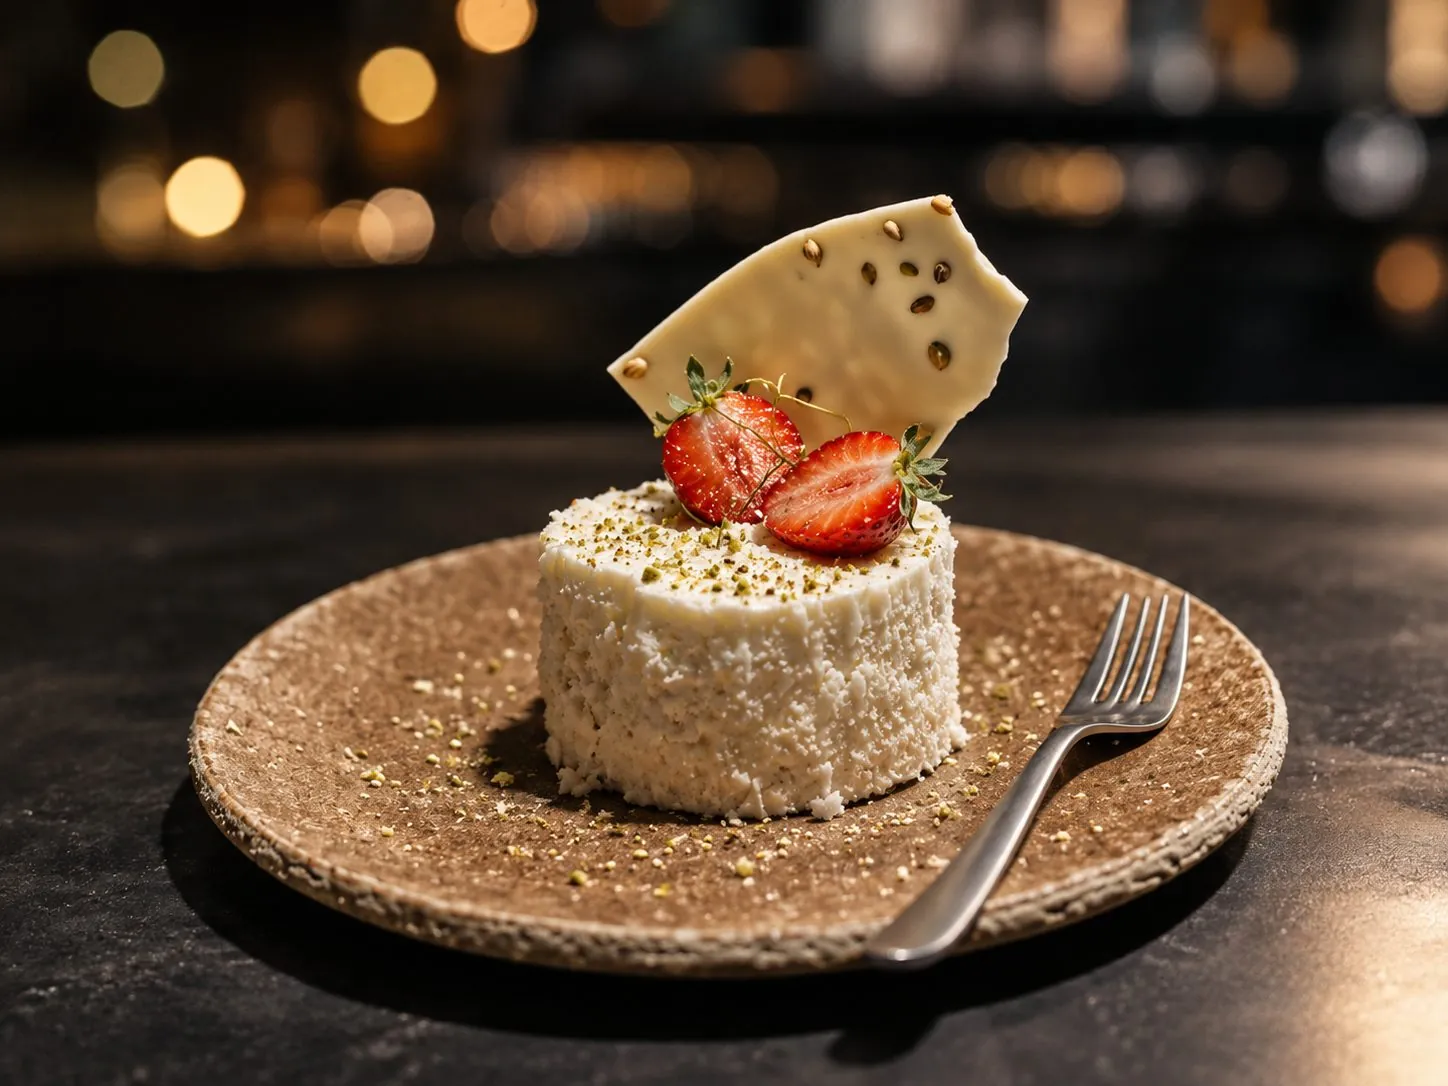
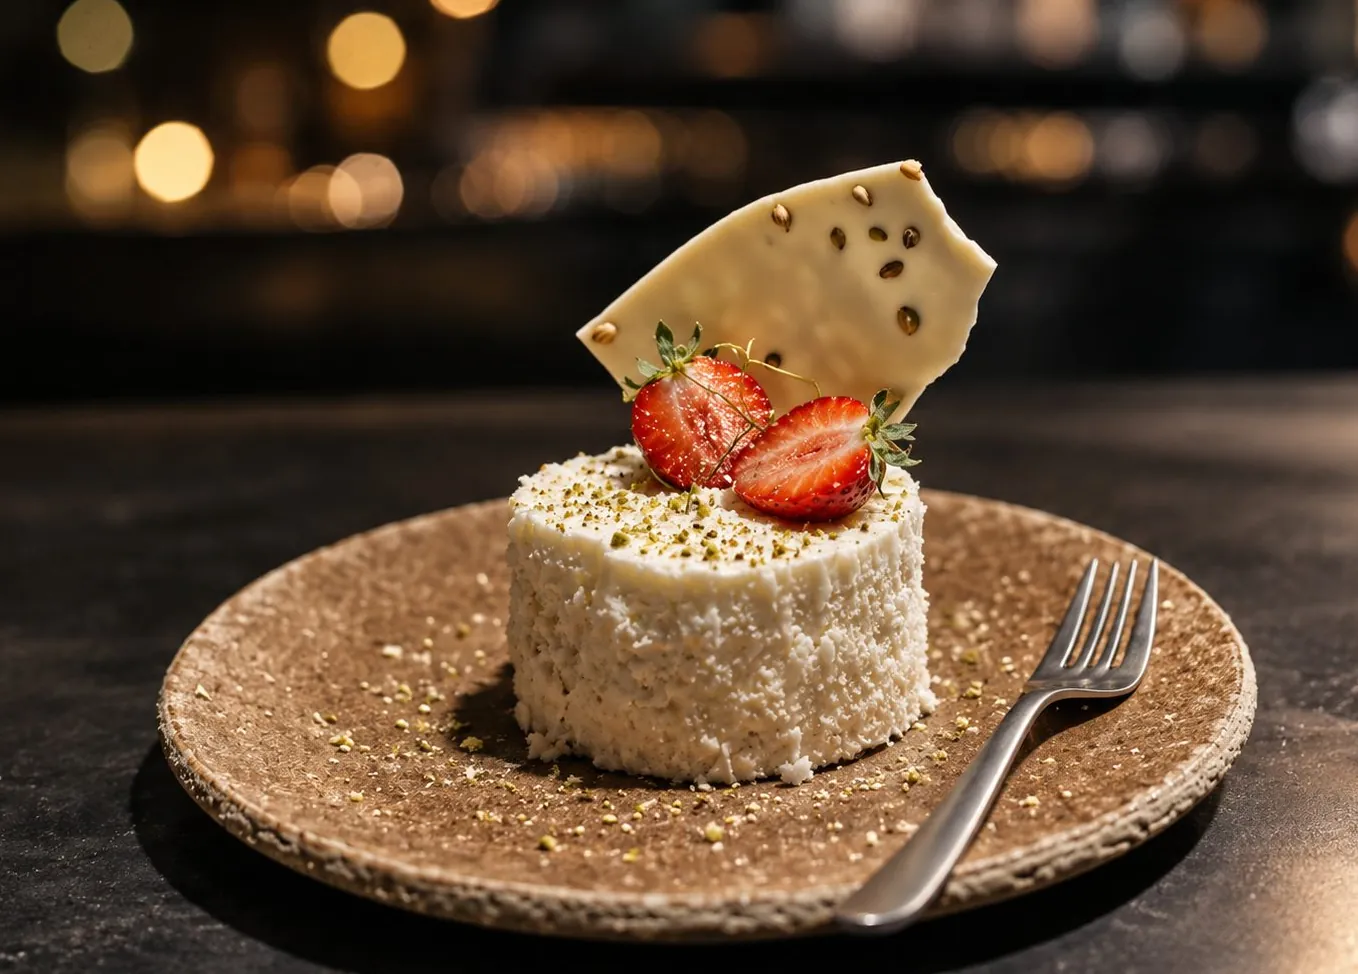
Hero and visual demo polish: - before/after photos aligned (ECC registration) and cropped to the shared frame - the glass scene's wordmark copy takes each letter's position from the page, so it lands exactly on the HTML wordmark in every engine - resizing redraws the scene in the same callback (no b

diff --git a/src/app/_home/home.html b/src/app/_home/home.html
@@ -43,6 +43,7 @@
 html{background:var(--bg);scrollbar-gutter:stable}
 section[id],article[id]{scroll-margin-top:24px}
 html.lock{overflow:hidden}
+html{scrollbar-gutter:stable}   /* locking the page for the menu or a case must not change its width: that relaid out (and blinked) the hero scene */
 body{margin:0;background:var(--bg);color:var(--tx);font:400 16px/1.5 var(--f);-webkit-font-smoothing:antialiased;overflow-x:clip}   /* margin: the preview wrapper resets it, the live page didn't */
 ::selection{background:var(--blk);color:var(--bg)}
 a{color:inherit;text-decoration:none}
@@ -1045,8 +1046,8 @@ const rub=n=>n.toLocaleString('ru-RU')+' ₽';
 /* on tetsab.ru cases live at /cases/slug; in a single-file preview they fall back to #case/slug */
 const caseHref=slug=>(globalThis.__paths?'/cases/':'#case/')+slug;
 const ART={
-  cake:{t:'Торт на заказ',s:'Рекламный кадр для соцсетей',ph:{b:'/img/cases/visual/dessert-before',a:'/img/cases/visual/dessert-after',w:1448,t:'Десерт для меню',s:'Кадр для сайта и доставки',ab:'Исходное фото десерта: тусклый свет, мягкий фокус',aa:'Тот же десерт после обработки: свет, резкость, цвет'},svg:'<svg viewBox="0 0 200 200" aria-hidden="true"><ellipse cx="100" cy="170" rx="78" ry="12" fill="#e9e6e0"/><rect x="38" y="104" width="124" height="62" rx="10" fill="#f3d9de"/><rect x="54" y="62" width="92" height="48" rx="9" fill="#f7e6e9"/><path d="M54 74c8 10 12-4 20 6s12-6 20 4 12-6 20 2 12-6 20 4 10-4 12-2V70c0-5-4-8-9-8H63c-5 0-9 3-9 8z" fill="#8c3b4f"/><path d="M38 116c10 12 14-4 24 6s14-6 24 4 14-6 24 2 14-6 24 4 14-4 18-2v-12c0-6-4-10-10-10H48c-6 0-10 4-10 10z" fill="#b65a6f"/><circle cx="82" cy="58" r="7" fill="#c21f3a"/><circle cx="100" cy="55" r="7" fill="#d4273f"/><circle cx="118" cy="58" r="7" fill="#c21f3a"/><rect x="98" y="30" width="4" height="22" rx="2" fill="#e8c35a"/><path d="M100 20c4 5 4 9 0 11-4-2-4-6 0-11z" fill="#f5a623"/></svg>'},
-  bottle:{t:'Масло для рук',s:'Карточка для маркетплейса',ph:{b:'/img/cases/visual/perfume-before',a:'/img/cases/visual/perfume-after',w:1024,t:'Флакон для каталога',s:'Кадр для маркетплейса',light:1,ab:'Исходное фото флакона: тёплый свет, мягкий фокус',aa:'Тот же флакон после обработки: каменный подиум, дневной свет'},svg:'<svg viewBox="0 0 200 200" aria-hidden="true"><ellipse cx="100" cy="176" rx="52" ry="8" fill="#e6e3dc"/><rect x="84" y="22" width="32" height="26" rx="5" fill="#2b2b2b"/><rect x="90" y="44" width="20" height="12" fill="#cfcfcf"/><rect x="58" y="54" width="84" height="120" rx="20" fill="#c9a36a"/><rect x="58" y="54" width="84" height="120" rx="20" fill="url(#g1)"/><rect x="70" y="92" width="60" height="50" rx="6" fill="#f6f1e7"/><rect x="80" y="104" width="40" height="5" rx="2" fill="#2b2b2b"/><rect x="86" y="116" width="28" height="3" rx="1.5" fill="#8a8a8a"/><rect x="84" y="124" width="32" height="3" rx="1.5" fill="#8a8a8a"/><defs><linearGradient id="g1" x1="0" x2="1"><stop offset="0" stop-color="#fff" stop-opacity=".35"/><stop offset=".3" stop-color="#fff" stop-opacity="0"/><stop offset="1" stop-color="#000" stop-opacity=".15"/></linearGradient></defs></svg>'},
+  cake:{t:'Торт на заказ',s:'Рекламный кадр для соцсетей',ph:{b:'/img/cases/visual/dessert-before',a:'/img/cases/visual/dessert-after',w:1358,t:'Десерт для меню',s:'Кадр для сайта и доставки',ab:'Исходное фото десерта: тусклый свет, мягкий фокус',aa:'Тот же десерт после обработки: свет, резкость, цвет'},svg:'<svg viewBox="0 0 200 200" aria-hidden="true"><ellipse cx="100" cy="170" rx="78" ry="12" fill="#e9e6e0"/><rect x="38" y="104" width="124" height="62" rx="10" fill="#f3d9de"/><rect x="54" y="62" width="92" height="48" rx="9" fill="#f7e6e9"/><path d="M54 74c8 10 12-4 20 6s12-6 20 4 12-6 20 2 12-6 20 4 10-4 12-2V70c0-5-4-8-9-8H63c-5 0-9 3-9 8z" fill="#8c3b4f"/><path d="M38 116c10 12 14-4 24 6s14-6 24 4 14-6 24 2 14-6 24 4 14-4 18-2v-12c0-6-4-10-10-10H48c-6 0-10 4-10 10z" fill="#b65a6f"/><circle cx="82" cy="58" r="7" fill="#c21f3a"/><circle cx="100" cy="55" r="7" fill="#d4273f"/><circle cx="118" cy="58" r="7" fill="#c21f3a"/><rect x="98" y="30" width="4" height="22" rx="2" fill="#e8c35a"/><path d="M100 20c4 5 4 9 0 11-4-2-4-6 0-11z" fill="#f5a623"/></svg>'},
+  bottle:{t:'Масло для рук',s:'Карточка для маркетплейса',ph:{b:'/img/cases/visual/perfume-before',a:'/img/cases/visual/perfume-after',w:983,t:'Флакон для каталога',s:'Кадр для маркетплейса',light:1,ab:'Исходное фото флакона: тёплый свет, мягкий фокус',aa:'Тот же флакон после обработки: каменный подиум, дневной свет'},svg:'<svg viewBox="0 0 200 200" aria-hidden="true"><ellipse cx="100" cy="176" rx="52" ry="8" fill="#e6e3dc"/><rect x="84" y="22" width="32" height="26" rx="5" fill="#2b2b2b"/><rect x="90" y="44" width="20" height="12" fill="#cfcfcf"/><rect x="58" y="54" width="84" height="120" rx="20" fill="#c9a36a"/><rect x="58" y="54" width="84" height="120" rx="20" fill="url(#g1)"/><rect x="70" y="92" width="60" height="50" rx="6" fill="#f6f1e7"/><rect x="80" y="104" width="40" height="5" rx="2" fill="#2b2b2b"/><rect x="86" y="116" width="28" height="3" rx="1.5" fill="#8a8a8a"/><rect x="84" y="124" width="32" height="3" rx="1.5" fill="#8a8a8a"/><defs><linearGradient id="g1" x1="0" x2="1"><stop offset="0" stop-color="#fff" stop-opacity=".35"/><stop offset=".3" stop-color="#fff" stop-opacity="0"/><stop offset="1" stop-color="#000" stop-opacity=".15"/></linearGradient></defs></svg>'},
   chair:{t:'Кресло из массива',s:'Фото для сайта и Авито',svg:'<svg viewBox="0 0 200 200" aria-hidden="true"><ellipse cx="100" cy="178" rx="70" ry="9" fill="#e6e3dc"/><path d="M52 38c0-8 6-14 14-14h68c8 0 14 6 14 14v70H52z" fill="#7d8f7a"/><rect x="40" y="100" width="120" height="34" rx="14" fill="#8fa38b"/><rect x="36" y="78" width="18" height="58" rx="8" fill="#6f806c"/><rect x="146" y="78" width="18" height="58" rx="8" fill="#6f806c"/><path d="M52 134l-6 42M148 134l6 42M76 134l-2 38M124 134l2 38" stroke="#6b4a2f" stroke-width="7" stroke-linecap="round"/></svg>'}
 };
 const DISH=[['Шаурма классическая','Курица, овощи, чесночный соус',290,'linear-gradient(150deg,#f3d2a5,#c47a34)'],['Шаурма сырная','Двойной сыр, халапеньо',330,'linear-gradient(150deg,#f6e2a0,#d19a2a)'],['Фалафель-ролл','Без мяса, хумус',270,'linear-gradient(150deg,#dfe6b5,#8c9a3e)'],['Морс домашний','Клюква, 0,4 л',120,'linear-gradient(150deg,#f0b8c0,#b8324a)']];
@@ -1755,8 +1756,12 @@ function drawMark(){
   const b=mark.getBoundingClientRect(), fs=parseFloat(cs.fontSize), ls=parseFloat(cs.letterSpacing)||0;
   tx.fillStyle=cs.color; tx.font=cs.fontWeight+' '+fs*k+'px '+cs.fontFamily; tx.textBaseline='alphabetic';
   let x=(b.left-r.left)*k; const y=(base-r.top)*k;
-  if('letterSpacing' in tx){ tx.letterSpacing=ls*k+'px'; tx.fillText(mark.textContent,x,y); }
-  else for(const ch of mark.textContent){ tx.fillText(ch,x,y); x+=tx.measureText(ch).width+ls*k; }
+  /* each letter where the page put it (kerning and spacing included), so the copy lands exactly on the HTML wordmark
+     in every browser; canvas letterSpacing and its own kerning differ between engines and made the letters jump */
+  const tn=mark.firstChild, rg=document.createRange();
+  if(tn&&tn.nodeType===3){ if('letterSpacing' in tx) tx.letterSpacing='0px';
+    for(let i=0;i<tn.length;i++){ rg.setStart(tn,i); rg.setEnd(tn,i+1); tx.fillText(tn.data[i],(rg.getBoundingClientRect().left-r.left)*k,y); } }
+  else tx.fillText(mark.textContent,x,y);
   tex.needsUpdate=true;
   cy=H/2-((b.top+b.bottom)/2-r.top);
 }
@@ -1872,7 +1877,11 @@ function govern(raw){ if(raw>1) return;   /* a pause (tab switch, sleep), not a 
   if(ratio>.75){ ratio=Math.max(.75,+(ratio-.25).toFixed(2)); renderer.setPixelRatio(ratio); renderer.setSize(W,H,false); }
   else if(mat.dispersion){ mat.dispersion=0; mat.needsUpdate=true; }
   else quit(); }
-function frame(now){ raf=0; window.__glFrames=(window.__glFrames||0)+1; if(dead) return; const raw=Math.max(0,(now-last)/1000); govern(raw); step(Math.min(.05,raw)); last=now; renderer.render(scene,cam); drawOverlay(now); if(vis) raf=requestAnimationFrame(frame); }
+const menuOpen=()=>document.documentElement.classList.contains('m-open');
+/* while the menu is open the scene holds still: its blurred backdrop had to be recomputed over a moving scene every frame,
+   which made opening and closing stutter. It picks up again once the menu has finished closing. */
+new MutationObserver(()=>{ if(!menuOpen()) setTimeout(()=>{ if(!menuOpen()) wake(); },450); }).observe(document.documentElement,{attributes:true,attributeFilter:['class']});
+function frame(now){ raf=0; window.__glFrames=(window.__glFrames||0)+1; if(dead) return; if(menuOpen()) return; const raw=Math.max(0,(now-last)/1000); govern(raw); step(Math.min(.05,raw)); last=now; renderer.render(scene,cam); drawOverlay(now); if(vis) raf=requestAnimationFrame(frame); }
 function wake(){ if(!raf&&vis&&!dead){ last=performance.now(); raf=requestAnimationFrame(frame); } }
 
 await Promise.race([document.fonts?document.fonts.load('400 1em "Golos Text"').catch(()=>{}):0,new Promise(r=>setTimeout(r,3000))]);
@@ -1902,7 +1911,8 @@ const launch=()=>{ const T=performance.now(); objs.forEach((b,i)=>{ b.born=T+160
 if(!pre||pre.matches('.gone,.out')) launch();
 else new MutationObserver((_,mo)=>{ if(pre.matches('.gone,.out')){ mo.disconnect(); launch(); } }).observe(pre,{attributes:true,attributeFilter:['class']});
 renderer.render(scene,cam); cv.classList.add('on'); ov.classList.add('on');
-new ResizeObserver(()=>{ layout(); if(!raf){ renderer.render(scene,cam); drawOverlay(performance.now()); } }).observe(hero);
+/* resizing the canvas clears it: draw again in the same callback, or the glass blinks until the next frame */
+let lastW=0; new ResizeObserver(()=>{ const w=hero.clientWidth, h=hero.clientHeight; if(w===lastW&&Math.abs(h-H)<2) return; lastW=w; layout(); renderer.render(scene,cam); drawOverlay(performance.now()); }).observe(hero);
 document.fonts&&document.fonts.addEventListener('loadingdone',()=>setTimeout(()=>{ if(!dead){ layout(); if(!raf){ renderer.render(scene,cam); drawOverlay(performance.now()); } } },0));   /* the page refits the wordmark first */
 new IntersectionObserver(es=>{ vis=es[es.length-1].isIntersecting; wake(); }).observe(hero);   /* the latest entry: a reload can batch 'restored scroll, off screen' with 'scrolled back to top' */
 /* if the GPU drops the context (sleep, driver reset) fall back to the plain wordmark */
